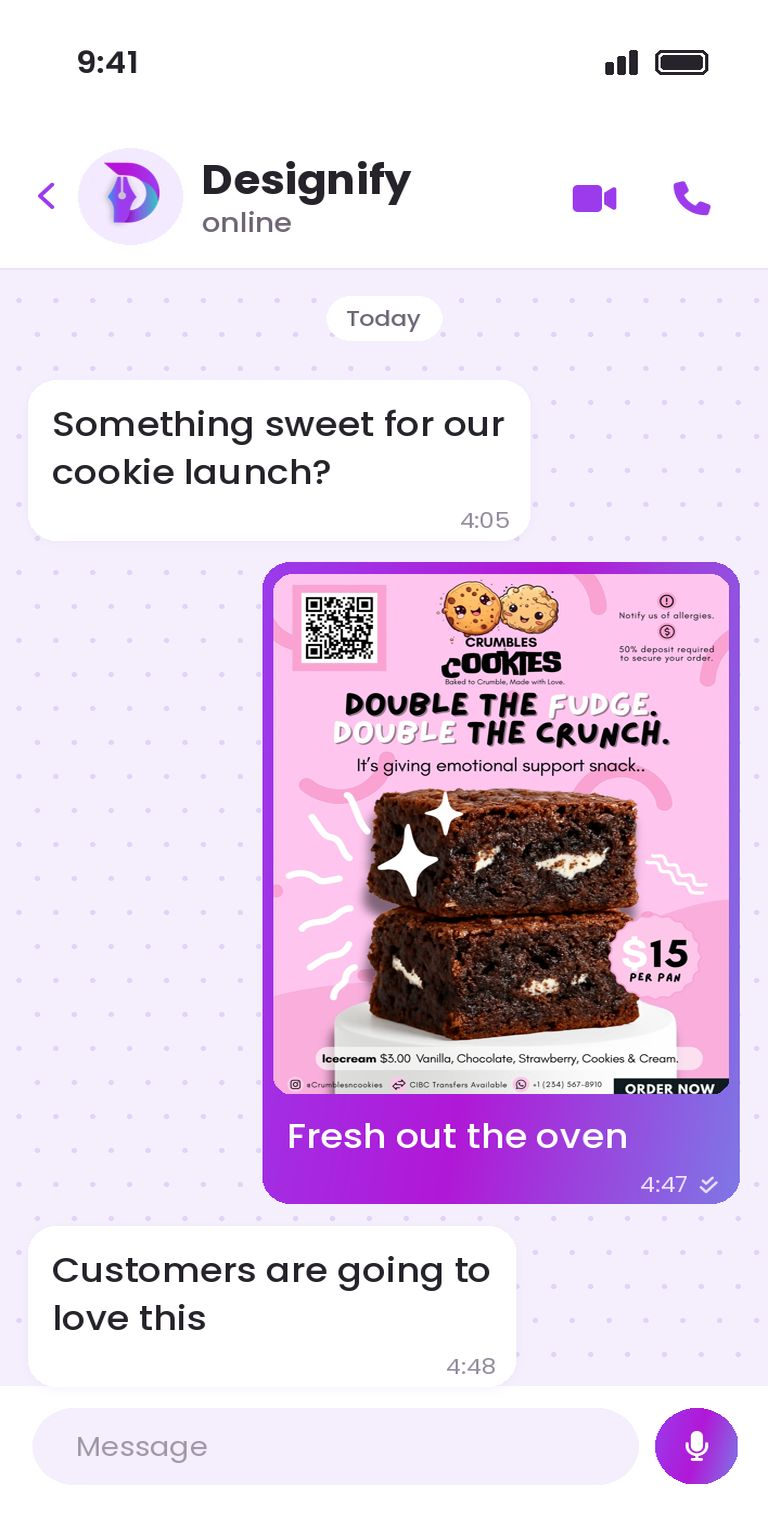
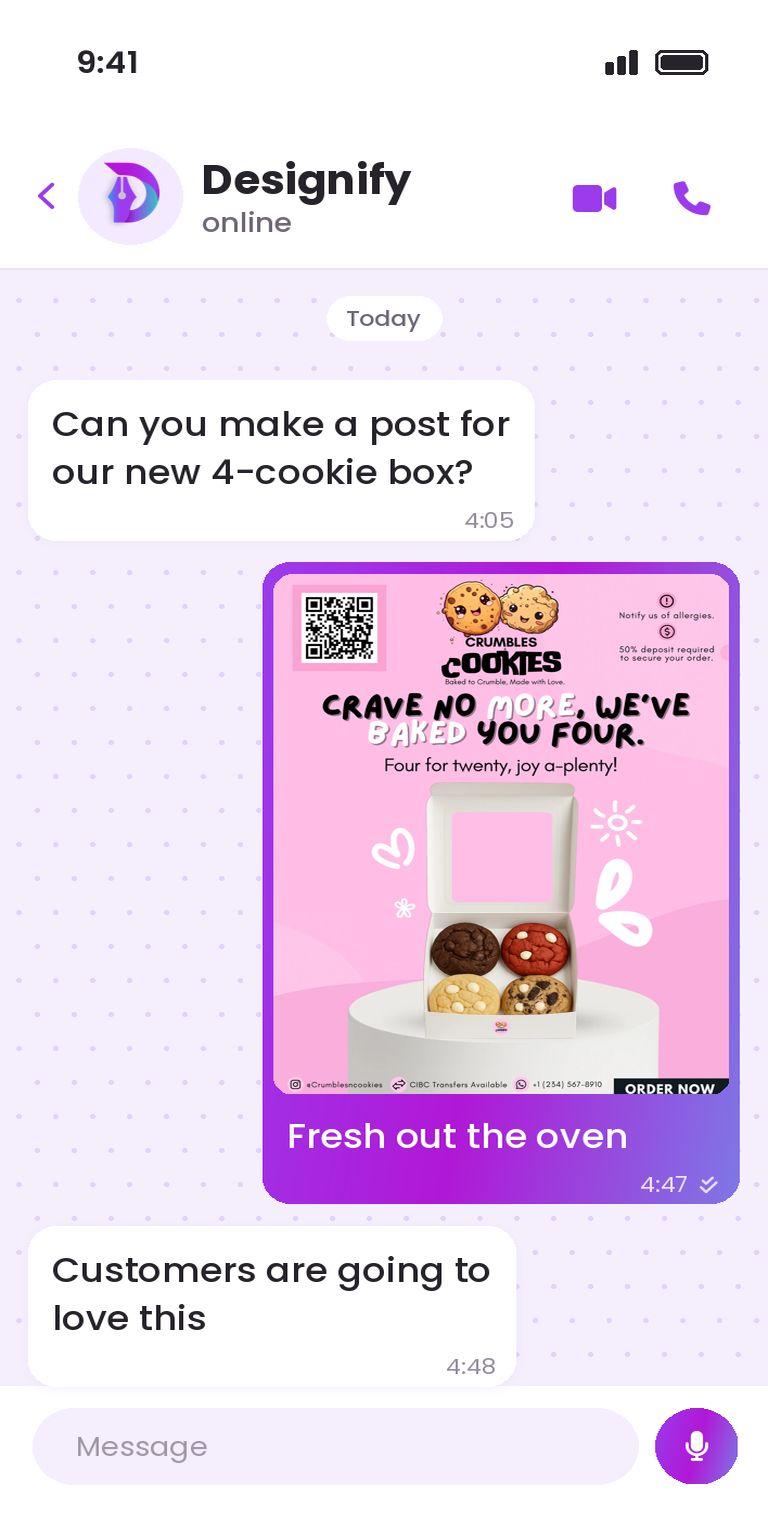
Phone chat: matching designs, buzz and spin
- Cookie chat now asks for the 4-cookie box post and shows that design
- Social media chat shows one brand's feed (Crave & Co.) instead of a
  mix of different clients
- Phone buzzes with a ring pulse when a message lands and spins a full
  turn when a new conversation starts

Claude-Session: https://claude.ai/code/session_01LHQDgk4opXddn6dfowpkvJ

diff --git a/projects/shenika-s-sweet-treats.html b/projects/shenika-s-sweet-treats.html
@@ -11,7 +11,7 @@
   gtag('js', new Date());
 
   gtag('config', 'G-Y71VVHPDCJ');
-</script><meta charset="utf-8"/><meta content="width=device-width,initial-scale=1" name="viewport"/><title>Shenika's Sweet Treats | Branding &amp; Graphic Design in Barbados | Designify</title><meta content="The Shenika's Sweet Treats dessert brand design project by Designify, a graphic designer in Barbados. See the designs created for Shenika's Sweet Treats." name="description"/><link href="https://fonts.googleapis.com" rel="preconnect"/><link crossorigin="" href="https://fonts.gstatic.com" rel="preconnect"/><link href="https://fonts.googleapis.com/css2?family=Poppins:wght@400;500;600;700;800&amp;display=swap" rel="stylesheet"/><link href="../assets/canvas.css?v=20261122j" rel="stylesheet"/><link crossorigin="anonymous" href="https://cdnjs.cloudflare.com/ajax/libs/font-awesome/6.7.2/css/all.min.css" integrity="sha512-Evv84Mr4kqVGRNSgIGL/F/aIDqQb7xQ2vcrdIwxfjThSH8CSR7PBEakCr51Ck+w+/U6swU2Im1vVX0SVk9ABhg==" referrerpolicy="no-referrer" rel="stylesheet"/><link rel="icon" type="image/x-icon" href="../favicon.ico"/><link rel="icon" type="image/png" sizes="64x64" href="../favicon.png"/><link rel="apple-touch-icon" sizes="180x180" href="../apple-touch-icon.png"/><link rel="canonical" href="https://designifybim.com/projects/shenika-s-sweet-treats"/>
+</script><meta charset="utf-8"/><meta content="width=device-width,initial-scale=1" name="viewport"/><title>Shenika's Sweet Treats | Branding &amp; Graphic Design in Barbados | Designify</title><meta content="The Shenika's Sweet Treats dessert brand design project by Designify, a graphic designer in Barbados. See the designs created for Shenika's Sweet Treats." name="description"/><link href="https://fonts.googleapis.com" rel="preconnect"/><link crossorigin="" href="https://fonts.gstatic.com" rel="preconnect"/><link href="https://fonts.googleapis.com/css2?family=Poppins:wght@400;500;600;700;800&amp;display=swap" rel="stylesheet"/><link href="../assets/canvas.css?v=20261122k" rel="stylesheet"/><link crossorigin="anonymous" href="https://cdnjs.cloudflare.com/ajax/libs/font-awesome/6.7.2/css/all.min.css" integrity="sha512-Evv84Mr4kqVGRNSgIGL/F/aIDqQb7xQ2vcrdIwxfjThSH8CSR7PBEakCr51Ck+w+/U6swU2Im1vVX0SVk9ABhg==" referrerpolicy="no-referrer" rel="stylesheet"/><link rel="icon" type="image/x-icon" href="../favicon.ico"/><link rel="icon" type="image/png" sizes="64x64" href="../favicon.png"/><link rel="apple-touch-icon" sizes="180x180" href="../apple-touch-icon.png"/><link rel="canonical" href="https://designifybim.com/projects/shenika-s-sweet-treats"/>
 <meta property="og:type" content="website"/>
 <meta property="og:url" content="https://designifybim.com/projects/shenika-s-sweet-treats"/>
 <meta property="og:title" content="Shenika's Sweet Treats | Branding &amp; Graphic Design in Barbados | Designify"/>
@@ -102,5 +102,5 @@
   <a aria-label="Chat with Designify on WhatsApp" class="whatsapp-contact" href="https://wa.me/12462301679" rel="noopener" target="_blank"><span class="whatsapp-bubble"><strong>Need a design?</strong><small>Chat on WhatsApp</small></span><span class="wa-ic" aria-hidden="true"><i class="fa-brands fa-whatsapp"></i></span></a>
 </div>
 <script src="../assets/site.js?v=20261027e"></script>
-<script src="../assets/canvas.js?v=20261122j"></script>
+<script src="../assets/canvas.js?v=20261122k"></script>
 </body></html>

diff --git a/projects/unique-waffle-bites.html b/projects/unique-waffle-bites.html
@@ -11,7 +11,7 @@
   gtag('js', new Date());
 
   gtag('config', 'G-Y71VVHPDCJ');
-</script><meta charset="utf-8"/><meta content="width=device-width,initial-scale=1" name="viewport"/><title>Unique Waffle Bites | Branding &amp; Graphic Design in Barbados | Designify</title><meta content="The Unique Waffle Bites food brand and promotional design project by Designify, a graphic designer in Barbados. See the designs created for Unique Waffle Bites." name="description"/><link href="https://fonts.googleapis.com" rel="preconnect"/><link crossorigin="" href="https://fonts.gstatic.com" rel="preconnect"/><link href="https://fonts.googleapis.com/css2?family=Poppins:wght@400;500;600;700;800&amp;display=swap" rel="stylesheet"/><link href="../assets/canvas.css?v=20261122j" rel="stylesheet"/><link crossorigin="anonymous" href="https://cdnjs.cloudflare.com/ajax/libs/font-awesome/6.7.2/css/all.min.css" integrity="sha512-Evv84Mr4kqVGRNSgIGL/F/aIDqQb7xQ2vcrdIwxfjThSH8CSR7PBEakCr51Ck+w+/U6swU2Im1vVX0SVk9ABhg==" referrerpolicy="no-referrer" rel="stylesheet"/><link rel="icon" type="image/x-icon" href="../favicon.ico"/><link rel="icon" type="image/png" sizes="64x64" href="../favicon.png"/><link rel="apple-touch-icon" sizes="180x180" href="../apple-touch-icon.png"/><link rel="canonical" href="https://designifybim.com/projects/unique-waffle-bites"/>
+</script><meta charset="utf-8"/><meta content="width=device-width,initial-scale=1" name="viewport"/><title>Unique Waffle Bites | Branding &amp; Graphic Design in Barbados | Designify</title><meta content="The Unique Waffle Bites food brand and promotional design project by Designify, a graphic designer in Barbados. See the designs created for Unique Waffle Bites." name="description"/><link href="https://fonts.googleapis.com" rel="preconnect"/><link crossorigin="" href="https://fonts.gstatic.com" rel="preconnect"/><link href="https://fonts.googleapis.com/css2?family=Poppins:wght@400;500;600;700;800&amp;display=swap" rel="stylesheet"/><link href="../assets/canvas.css?v=20261122k" rel="stylesheet"/><link crossorigin="anonymous" href="https://cdnjs.cloudflare.com/ajax/libs/font-awesome/6.7.2/css/all.min.css" integrity="sha512-Evv84Mr4kqVGRNSgIGL/F/aIDqQb7xQ2vcrdIwxfjThSH8CSR7PBEakCr51Ck+w+/U6swU2Im1vVX0SVk9ABhg==" referrerpolicy="no-referrer" rel="stylesheet"/><link rel="icon" type="image/x-icon" href="../favicon.ico"/><link rel="icon" type="image/png" sizes="64x64" href="../favicon.png"/><link rel="apple-touch-icon" sizes="180x180" href="../apple-touch-icon.png"/><link rel="canonical" href="https://designifybim.com/projects/unique-waffle-bites"/>
 <meta property="og:type" content="website"/>
 <meta property="og:url" content="https://designifybim.com/projects/unique-waffle-bites"/>
 <meta property="og:title" content="Unique Waffle Bites | Branding &amp; Graphic Design in Barbados | Designify"/>
@@ -102,5 +102,5 @@
   <a aria-label="Chat with Designify on WhatsApp" class="whatsapp-contact" href="https://wa.me/12462301679" rel="noopener" target="_blank"><span class="whatsapp-bubble"><strong>Need a design?</strong><small>Chat on WhatsApp</small></span><span class="wa-ic" aria-hidden="true"><i class="fa-brands fa-whatsapp"></i></span></a>
 </div>
 <script src="../assets/site.js?v=20261027e"></script>
-<script src="../assets/canvas.js?v=20261122j"></script>
+<script src="../assets/canvas.js?v=20261122k"></script>
 </body></html>

diff --git a/projects/crumbles-cookies.html b/projects/crumbles-cookies.html
@@ -11,7 +11,7 @@
   gtag('js', new Date());
 
   gtag('config', 'G-Y71VVHPDCJ');
-</script><meta charset="utf-8"/><meta content="width=device-width,initial-scale=1" name="viewport"/><title>Crumbles & Cookies | Branding &amp; Graphic Design in Barbados | Designify</title><meta content="The Crumbles & Cookies bakery branding and promotional design project by Designify, a graphic designer in Barbados. See the designs created for Crumbles & Cookies." name="description"/><link href="https://fonts.googleapis.com" rel="preconnect"/><link crossorigin="" href="https://fonts.gstatic.com" rel="preconnect"/><link href="https://fonts.googleapis.com/css2?family=Poppins:wght@400;500;600;700;800&amp;display=swap" rel="stylesheet"/><link href="../assets/canvas.css?v=20261122j" rel="stylesheet"/><link crossorigin="anonymous" href="https://cdnjs.cloudflare.com/ajax/libs/font-awesome/6.7.2/css/all.min.css" integrity="sha512-Evv84Mr4kqVGRNSgIGL/F/aIDqQb7xQ2vcrdIwxfjThSH8CSR7PBEakCr51Ck+w+/U6swU2Im1vVX0SVk9ABhg==" referrerpolicy="no-referrer" rel="stylesheet"/><link rel="icon" type="image/x-icon" href="../favicon.ico"/><link rel="icon" type="image/png" sizes="64x64" href="../favicon.png"/><link rel="apple-touch-icon" sizes="180x180" href="../apple-touch-icon.png"/><link rel="canonical" href="https://designifybim.com/projects/crumbles-cookies"/>
+</script><meta charset="utf-8"/><meta content="width=device-width,initial-scale=1" name="viewport"/><title>Crumbles & Cookies | Branding &amp; Graphic Design in Barbados | Designify</title><meta content="The Crumbles & Cookies bakery branding and promotional design project by Designify, a graphic designer in Barbados. See the designs created for Crumbles & Cookies." name="description"/><link href="https://fonts.googleapis.com" rel="preconnect"/><link crossorigin="" href="https://fonts.gstatic.com" rel="preconnect"/><link href="https://fonts.googleapis.com/css2?family=Poppins:wght@400;500;600;700;800&amp;display=swap" rel="stylesheet"/><link href="../assets/canvas.css?v=20261122k" rel="stylesheet"/><link crossorigin="anonymous" href="https://cdnjs.cloudflare.com/ajax/libs/font-awesome/6.7.2/css/all.min.css" integrity="sha512-Evv84Mr4kqVGRNSgIGL/F/aIDqQb7xQ2vcrdIwxfjThSH8CSR7PBEakCr51Ck+w+/U6swU2Im1vVX0SVk9ABhg==" referrerpolicy="no-referrer" rel="stylesheet"/><link rel="icon" type="image/x-icon" href="../favicon.ico"/><link rel="icon" type="image/png" sizes="64x64" href="../favicon.png"/><link rel="apple-touch-icon" sizes="180x180" href="../apple-touch-icon.png"/><link rel="canonical" href="https://designifybim.com/projects/crumbles-cookies"/>
 <meta property="og:type" content="website"/>
 <meta property="og:url" content="https://designifybim.com/projects/crumbles-cookies"/>
 <meta property="og:title" content="Crumbles & Cookies | Branding &amp; Graphic Design in Barbados | Designify"/>
@@ -102,5 +102,5 @@
   <a aria-label="Chat with Designify on WhatsApp" class="whatsapp-contact" href="https://wa.me/12462301679" rel="noopener" target="_blank"><span class="whatsapp-bubble"><strong>Need a design?</strong><small>Chat on WhatsApp</small></span><span class="wa-ic" aria-hidden="true"><i class="fa-brands fa-whatsapp"></i></span></a>
 </div>
 <script src="../assets/site.js?v=20261027e"></script>
-<script src="../assets/canvas.js?v=20261122j"></script>
+<script src="../assets/canvas.js?v=20261122k"></script>
 </body></html>

diff --git a/projects/apex-car-rentals.html b/projects/apex-car-rentals.html
@@ -11,7 +11,7 @@
   gtag('js', new Date());
 
   gtag('config', 'G-Y71VVHPDCJ');
-</script><meta charset="utf-8"/><meta content="width=device-width,initial-scale=1" name="viewport"/><title>Apex Car Rentals | Branding &amp; Graphic Design in Barbados | Designify</title><meta content="The Apex Car Rentals branding and promotional design project by Designify, a graphic designer in Barbados. See the designs created for Apex Car Rentals." name="description"/><link href="https://fonts.googleapis.com" rel="preconnect"/><link crossorigin="" href="https://fonts.gstatic.com" rel="preconnect"/><link href="https://fonts.googleapis.com/css2?family=Poppins:wght@400;500;600;700;800&amp;display=swap" rel="stylesheet"/><link href="../assets/canvas.css?v=20261122j" rel="stylesheet"/><link crossorigin="anonymous" href="https://cdnjs.cloudflare.com/ajax/libs/font-awesome/6.7.2/css/all.min.css" integrity="sha512-Evv84Mr4kqVGRNSgIGL/F/aIDqQb7xQ2vcrdIwxfjThSH8CSR7PBEakCr51Ck+w+/U6swU2Im1vVX0SVk9ABhg==" referrerpolicy="no-referrer" rel="stylesheet"/><link rel="icon" type="image/x-icon" href="../favicon.ico"/><link rel="icon" type="image/png" sizes="64x64" href="../favicon.png"/><link rel="apple-touch-icon" sizes="180x180" href="../apple-touch-icon.png"/><link rel="canonical" href="https://designifybim.com/projects/apex-car-rentals"/>
+</script><meta charset="utf-8"/><meta content="width=device-width,initial-scale=1" name="viewport"/><title>Apex Car Rentals | Branding &amp; Graphic Design in Barbados | Designify</title><meta content="The Apex Car Rentals branding and promotional design project by Designify, a graphic designer in Barbados. See the designs created for Apex Car Rentals." name="description"/><link href="https://fonts.googleapis.com" rel="preconnect"/><link crossorigin="" href="https://fonts.gstatic.com" rel="preconnect"/><link href="https://fonts.googleapis.com/css2?family=Poppins:wght@400;500;600;700;800&amp;display=swap" rel="stylesheet"/><link href="../assets/canvas.css?v=20261122k" rel="stylesheet"/><link crossorigin="anonymous" href="https://cdnjs.cloudflare.com/ajax/libs/font-awesome/6.7.2/css/all.min.css" integrity="sha512-Evv84Mr4kqVGRNSgIGL/F/aIDqQb7xQ2vcrdIwxfjThSH8CSR7PBEakCr51Ck+w+/U6swU2Im1vVX0SVk9ABhg==" referrerpolicy="no-referrer" rel="stylesheet"/><link rel="icon" type="image/x-icon" href="../favicon.ico"/><link rel="icon" type="image/png" sizes="64x64" href="../favicon.png"/><link rel="apple-touch-icon" sizes="180x180" href="../apple-touch-icon.png"/><link rel="canonical" href="https://designifybim.com/projects/apex-car-rentals"/>
 <meta property="og:type" content="website"/>
 <meta property="og:url" content="https://designifybim.com/projects/apex-car-rentals"/>
 <meta property="og:title" content="Apex Car Rentals | Branding &amp; Graphic Design in Barbados | Designify"/>
@@ -102,5 +102,5 @@
   <a aria-label="Chat with Designify on WhatsApp" class="whatsapp-contact" href="https://wa.me/12462301679" rel="noopener" target="_blank"><span class="whatsapp-bubble"><strong>Need a design?</strong><small>Chat on WhatsApp</small></span><span class="wa-ic" aria-hidden="true"><i class="fa-brands fa-whatsapp"></i></span></a>
 </div>
 <script src="../assets/site.js?v=20261027e"></script>
-<script src="../assets/canvas.js?v=20261122j"></script>
+<script src="../assets/canvas.js?v=20261122k"></script>
 </body></html>

diff --git a/projects/supremo-glass.html b/projects/supremo-glass.html
@@ -11,7 +11,7 @@
   gtag('js', new Date());
 
   gtag('config', 'G-Y71VVHPDCJ');
-</script><meta charset="utf-8"/><meta content="width=device-width,initial-scale=1" name="viewport"/><title>Supremo Glass | Branding &amp; Graphic Design in Barbados | Designify</title><meta content="The Supremo Glass business branding and presentation design project by Designify, a graphic designer in Barbados. See the designs created for Supremo Glass." name="description"/><link href="https://fonts.googleapis.com" rel="preconnect"/><link crossorigin="" href="https://fonts.gstatic.com" rel="preconnect"/><link href="https://fonts.googleapis.com/css2?family=Poppins:wght@400;500;600;700;800&amp;display=swap" rel="stylesheet"/><link href="../assets/canvas.css?v=20261122j" rel="stylesheet"/><link crossorigin="anonymous" href="https://cdnjs.cloudflare.com/ajax/libs/font-awesome/6.7.2/css/all.min.css" integrity="sha512-Evv84Mr4kqVGRNSgIGL/F/aIDqQb7xQ2vcrdIwxfjThSH8CSR7PBEakCr51Ck+w+/U6swU2Im1vVX0SVk9ABhg==" referrerpolicy="no-referrer" rel="stylesheet"/><link rel="icon" type="image/x-icon" href="../favicon.ico"/><link rel="icon" type="image/png" sizes="64x64" href="../favicon.png"/><link rel="apple-touch-icon" sizes="180x180" href="../apple-touch-icon.png"/><link rel="canonical" href="https://designifybim.com/projects/supremo-glass"/>
+</script><meta charset="utf-8"/><meta content="width=device-width,initial-scale=1" name="viewport"/><title>Supremo Glass | Branding &amp; Graphic Design in Barbados | Designify</title><meta content="The Supremo Glass business branding and presentation design project by Designify, a graphic designer in Barbados. See the designs created for Supremo Glass." name="description"/><link href="https://fonts.googleapis.com" rel="preconnect"/><link crossorigin="" href="https://fonts.gstatic.com" rel="preconnect"/><link href="https://fonts.googleapis.com/css2?family=Poppins:wght@400;500;600;700;800&amp;display=swap" rel="stylesheet"/><link href="../assets/canvas.css?v=20261122k" rel="stylesheet"/><link crossorigin="anonymous" href="https://cdnjs.cloudflare.com/ajax/libs/font-awesome/6.7.2/css/all.min.css" integrity="sha512-Evv84Mr4kqVGRNSgIGL/F/aIDqQb7xQ2vcrdIwxfjThSH8CSR7PBEakCr51Ck+w+/U6swU2Im1vVX0SVk9ABhg==" referrerpolicy="no-referrer" rel="stylesheet"/><link rel="icon" type="image/x-icon" href="../favicon.ico"/><link rel="icon" type="image/png" sizes="64x64" href="../favicon.png"/><link rel="apple-touch-icon" sizes="180x180" href="../apple-touch-icon.png"/><link rel="canonical" href="https://designifybim.com/projects/supremo-glass"/>
 <meta property="og:type" content="website"/>
 <meta property="og:url" content="https://designifybim.com/projects/supremo-glass"/>
 <meta property="og:title" content="Supremo Glass | Branding &amp; Graphic Design in Barbados | Designify"/>
@@ -102,5 +102,5 @@
   <a aria-label="Chat with Designify on WhatsApp" class="whatsapp-contact" href="https://wa.me/12462301679" rel="noopener" target="_blank"><span class="whatsapp-bubble"><strong>Need a design?</strong><small>Chat on WhatsApp</small></span><span class="wa-ic" aria-hidden="true"><i class="fa-brands fa-whatsapp"></i></span></a>
 </div>
 <script src="../assets/site.js?v=20261027e"></script>
-<script src="../assets/canvas.js?v=20261122j"></script>
+<script src="../assets/canvas.js?v=20261122k"></script>
 </body></html>

diff --git a/projects/sugared-by-bri.html b/projects/sugared-by-bri.html
@@ -11,7 +11,7 @@
   gtag('js', new Date());
 
   gtag('config', 'G-Y71VVHPDCJ');
-</script><meta charset="utf-8"/><meta content="width=device-width,initial-scale=1" name="viewport"/><title>Sugared by Bri | Branding &amp; Graphic Design in Barbados | Designify</title><meta content="The Sugared by Bri beauty brand promotional design project by Designify, a graphic designer in Barbados. See the designs created for Sugared by Bri." name="description"/><link href="https://fonts.googleapis.com" rel="preconnect"/><link crossorigin="" href="https://fonts.gstatic.com" rel="preconnect"/><link href="https://fonts.googleapis.com/css2?family=Poppins:wght@400;500;600;700;800&amp;display=swap" rel="stylesheet"/><link href="../assets/canvas.css?v=20261122j" rel="stylesheet"/><link crossorigin="anonymous" href="https://cdnjs.cloudflare.com/ajax/libs/font-awesome/6.7.2/css/all.min.css" integrity="sha512-Evv84Mr4kqVGRNSgIGL/F/aIDqQb7xQ2vcrdIwxfjThSH8CSR7PBEakCr51Ck+w+/U6swU2Im1vVX0SVk9ABhg==" referrerpolicy="no-referrer" rel="stylesheet"/><link rel="icon" type="image/x-icon" href="../favicon.ico"/><link rel="icon" type="image/png" sizes="64x64" href="../favicon.png"/><link rel="apple-touch-icon" sizes="180x180" href="../apple-touch-icon.png"/><link rel="canonical" href="https://designifybim.com/projects/sugared-by-bri"/>
+</script><meta charset="utf-8"/><meta content="width=device-width,initial-scale=1" name="viewport"/><title>Sugared by Bri | Branding &amp; Graphic Design in Barbados | Designify</title><meta content="The Sugared by Bri beauty brand promotional design project by Designify, a graphic designer in Barbados. See the designs created for Sugared by Bri." name="description"/><link href="https://fonts.googleapis.com" rel="preconnect"/><link crossorigin="" href="https://fonts.gstatic.com" rel="preconnect"/><link href="https://fonts.googleapis.com/css2?family=Poppins:wght@400;500;600;700;800&amp;display=swap" rel="stylesheet"/><link href="../assets/canvas.css?v=20261122k" rel="stylesheet"/><link crossorigin="anonymous" href="https://cdnjs.cloudflare.com/ajax/libs/font-awesome/6.7.2/css/all.min.css" integrity="sha512-Evv84Mr4kqVGRNSgIGL/F/aIDqQb7xQ2vcrdIwxfjThSH8CSR7PBEakCr51Ck+w+/U6swU2Im1vVX0SVk9ABhg==" referrerpolicy="no-referrer" rel="stylesheet"/><link rel="icon" type="image/x-icon" href="../favicon.ico"/><link rel="icon" type="image/png" sizes="64x64" href="../favicon.png"/><link rel="apple-touch-icon" sizes="180x180" href="../apple-touch-icon.png"/><link rel="canonical" href="https://designifybim.com/projects/sugared-by-bri"/>
 <meta property="og:type" content="website"/>
 <meta property="og:url" content="https://designifybim.com/projects/sugared-by-bri"/>
 <meta property="og:title" content="Sugared by Bri | Branding &amp; Graphic Design in Barbados | Designify"/>
@@ -102,5 +102,5 @@
   <a aria-label="Chat with Designify on WhatsApp" class="whatsapp-contact" href="https://wa.me/12462301679" rel="noopener" target="_blank"><span class="whatsapp-bubble"><strong>Need a design?</strong><small>Chat on WhatsApp</small></span><span class="wa-ic" aria-hidden="true"><i class="fa-brands fa-whatsapp"></i></span></a>
 </div>
 <script src="../assets/site.js?v=20261027e"></script>
-<script src="../assets/canvas.js?v=20261122j"></script>
+<script src="../assets/canvas.js?v=20261122k"></script>
 </body></html>

diff --git a/projects/luxe-by-her.html b/projects/luxe-by-her.html
@@ -11,7 +11,7 @@
   gtag('js', new Date());
 
   gtag('config', 'G-Y71VVHPDCJ');
-</script><meta charset="utf-8"/><meta content="width=device-width,initial-scale=1" name="viewport"/><title>LUXE BY HER | Branding &amp; Graphic Design in Barbados | Designify</title><meta content="The LUXE BY HER fashion and lifestyle branding project by Designify, a graphic designer in Barbados. See the designs created for LUXE BY HER." name="description"/><link href="https://fonts.googleapis.com" rel="preconnect"/><link crossorigin="" href="https://fonts.gstatic.com" rel="preconnect"/><link href="https://fonts.googleapis.com/css2?family=Poppins:wght@400;500;600;700;800&amp;display=swap" rel="stylesheet"/><link href="../assets/canvas.css?v=20261122j" rel="stylesheet"/><link crossorigin="anonymous" href="https://cdnjs.cloudflare.com/ajax/libs/font-awesome/6.7.2/css/all.min.css" integrity="sha512-Evv84Mr4kqVGRNSgIGL/F/aIDqQb7xQ2vcrdIwxfjThSH8CSR7PBEakCr51Ck+w+/U6swU2Im1vVX0SVk9ABhg==" referrerpolicy="no-referrer" rel="stylesheet"/><link rel="icon" type="image/x-icon" href="../favicon.ico"/><link rel="icon" type="image/png" sizes="64x64" href="../favicon.png"/><link rel="apple-touch-icon" sizes="180x180" href="../apple-touch-icon.png"/><link rel="canonical" href="https://designifybim.com/projects/luxe-by-her"/>
+</script><meta charset="utf-8"/><meta content="width=device-width,initial-scale=1" name="viewport"/><title>LUXE BY HER | Branding &amp; Graphic Design in Barbados | Designify</title><meta content="The LUXE BY HER fashion and lifestyle branding project by Designify, a graphic designer in Barbados. See the designs created for LUXE BY HER." name="description"/><link href="https://fonts.googleapis.com" rel="preconnect"/><link crossorigin="" href="https://fonts.gstatic.com" rel="preconnect"/><link href="https://fonts.googleapis.com/css2?family=Poppins:wght@400;500;600;700;800&amp;display=swap" rel="stylesheet"/><link href="../assets/canvas.css?v=20261122k" rel="stylesheet"/><link crossorigin="anonymous" href="https://cdnjs.cloudflare.com/ajax/libs/font-awesome/6.7.2/css/all.min.css" integrity="sha512-Evv84Mr4kqVGRNSgIGL/F/aIDqQb7xQ2vcrdIwxfjThSH8CSR7PBEakCr51Ck+w+/U6swU2Im1vVX0SVk9ABhg==" referrerpolicy="no-referrer" rel="stylesheet"/><link rel="icon" type="image/x-icon" href="../favicon.ico"/><link rel="icon" type="image/png" sizes="64x64" href="../favicon.png"/><link rel="apple-touch-icon" sizes="180x180" href="../apple-touch-icon.png"/><link rel="canonical" href="https://designifybim.com/projects/luxe-by-her"/>
 <meta property="og:type" content="website"/>
 <meta property="og:url" content="https://designifybim.com/projects/luxe-by-her"/>
 <meta property="og:title" content="LUXE BY HER | Branding &amp; Graphic Design in Barbados | Designify"/>
@@ -102,5 +102,5 @@
   <a aria-label="Chat with Designify on WhatsApp" class="whatsapp-contact" href="https://wa.me/12462301679" rel="noopener" target="_blank"><span class="whatsapp-bubble"><strong>Need a design?</strong><small>Chat on WhatsApp</small></span><span class="wa-ic" aria-hidden="true"><i class="fa-brands fa-whatsapp"></i></span></a>
 </div>
 <script src="../assets/site.js?v=20261027e"></script>
-<script src="../assets/canvas.js?v=20261122j"></script>
+<script src="../assets/canvas.js?v=20261122k"></script>
 </body></html>

diff --git a/projects/nova-lounge.html b/projects/nova-lounge.html
@@ -11,7 +11,7 @@
   gtag('js', new Date());
 
   gtag('config', 'G-Y71VVHPDCJ');
-</script><meta charset="utf-8"/><meta content="width=device-width,initial-scale=1" name="viewport"/><title>Nova Lounge | Branding &amp; Graphic Design in Barbados | Designify</title><meta content="The Nova Lounge fashion and lifestyle branding project by Designify, a graphic designer in Barbados. See the designs created for Nova Lounge." name="description"/><link href="https://fonts.googleapis.com" rel="preconnect"/><link crossorigin="" href="https://fonts.gstatic.com" rel="preconnect"/><link href="https://fonts.googleapis.com/css2?family=Poppins:wght@400;500;600;700;800&amp;display=swap" rel="stylesheet"/><link href="../assets/canvas.css?v=20261122j" rel="stylesheet"/><link crossorigin="anonymous" href="https://cdnjs.cloudflare.com/ajax/libs/font-awesome/6.7.2/css/all.min.css" integrity="sha512-Evv84Mr4kqVGRNSgIGL/F/aIDqQb7xQ2vcrdIwxfjThSH8CSR7PBEakCr51Ck+w+/U6swU2Im1vVX0SVk9ABhg==" referrerpolicy="no-referrer" rel="stylesheet"/><link rel="icon" type="image/x-icon" href="../favicon.ico"/><link rel="icon" type="image/png" sizes="64x64" href="../favicon.png"/><link rel="apple-touch-icon" sizes="180x180" href="../apple-touch-icon.png"/><link rel="canonical" href="https://designifybim.com/projects/nova-lounge"/>
+</script><meta charset="utf-8"/><meta content="width=device-width,initial-scale=1" name="viewport"/><title>Nova Lounge | Branding &amp; Graphic Design in Barbados | Designify</title><meta content="The Nova Lounge fashion and lifestyle branding project by Designify, a graphic designer in Barbados. See the designs created for Nova Lounge." name="description"/><link href="https://fonts.googleapis.com" rel="preconnect"/><link crossorigin="" href="https://fonts.gstatic.com" rel="preconnect"/><link href="https://fonts.googleapis.com/css2?family=Poppins:wght@400;500;600;700;800&amp;display=swap" rel="stylesheet"/><link href="../assets/canvas.css?v=20261122k" rel="stylesheet"/><link crossorigin="anonymous" href="https://cdnjs.cloudflare.com/ajax/libs/font-awesome/6.7.2/css/all.min.css" integrity="sha512-Evv84Mr4kqVGRNSgIGL/F/aIDqQb7xQ2vcrdIwxfjThSH8CSR7PBEakCr51Ck+w+/U6swU2Im1vVX0SVk9ABhg==" referrerpolicy="no-referrer" rel="stylesheet"/><link rel="icon" type="image/x-icon" href="../favicon.ico"/><link rel="icon" type="image/png" sizes="64x64" href="../favicon.png"/><link rel="apple-touch-icon" sizes="180x180" href="../apple-touch-icon.png"/><link rel="canonical" href="https://designifybim.com/projects/nova-lounge"/>
 <meta property="og:type" content="website"/>
 <meta property="og:url" content="https://designifybim.com/projects/nova-lounge"/>
 <meta property="og:title" content="Nova Lounge | Branding &amp; Graphic Design in Barbados | Designify"/>
@@ -102,5 +102,5 @@
   <a aria-label="Chat with Designify on WhatsApp" class="whatsapp-contact" href="https://wa.me/12462301679" rel="noopener" target="_blank"><span class="whatsapp-bubble"><strong>Need a design?</strong><small>Chat on WhatsApp</small></span><span class="wa-ic" aria-hidden="true"><i class="fa-brands fa-whatsapp"></i></span></a>
 </div>
 <script src="../assets/site.js?v=20261027e"></script>
-<script src="../assets/canvas.js?v=20261122j"></script>
+<script src="../assets/canvas.js?v=20261122k"></script>
 </body></html>

diff --git a/projects/tre-hair.html b/projects/tre-hair.html
@@ -11,7 +11,7 @@
   gtag('js', new Date());
 
   gtag('config', 'G-Y71VVHPDCJ');
-</script><meta charset="utf-8"/><meta content="width=device-width,initial-scale=1" name="viewport"/><title>TRE Hair | Branding &amp; Graphic Design in Barbados | Designify</title><meta content="The TRE Hair beauty brand pricing and promotional design project by Designify, a graphic designer in Barbados. See the designs created for TRE Hair." name="description"/><link href="https://fonts.googleapis.com" rel="preconnect"/><link crossorigin="" href="https://fonts.gstatic.com" rel="preconnect"/><link href="https://fonts.googleapis.com/css2?family=Poppins:wght@400;500;600;700;800&amp;display=swap" rel="stylesheet"/><link href="../assets/canvas.css?v=20261122j" rel="stylesheet"/><link crossorigin="anonymous" href="https://cdnjs.cloudflare.com/ajax/libs/font-awesome/6.7.2/css/all.min.css" integrity="sha512-Evv84Mr4kqVGRNSgIGL/F/aIDqQb7xQ2vcrdIwxfjThSH8CSR7PBEakCr51Ck+w+/U6swU2Im1vVX0SVk9ABhg==" referrerpolicy="no-referrer" rel="stylesheet"/><link rel="icon" type="image/x-icon" href="../favicon.ico"/><link rel="icon" type="image/png" sizes="64x64" href="../favicon.png"/><link rel="apple-touch-icon" sizes="180x180" href="../apple-touch-icon.png"/><link rel="canonical" href="https://designifybim.com/projects/tre-hair"/>
+</script><meta charset="utf-8"/><meta content="width=device-width,initial-scale=1" name="viewport"/><title>TRE Hair | Branding &amp; Graphic Design in Barbados | Designify</title><meta content="The TRE Hair beauty brand pricing and promotional design project by Designify, a graphic designer in Barbados. See the designs created for TRE Hair." name="description"/><link href="https://fonts.googleapis.com" rel="preconnect"/><link crossorigin="" href="https://fonts.gstatic.com" rel="preconnect"/><link href="https://fonts.googleapis.com/css2?family=Poppins:wght@400;500;600;700;800&amp;display=swap" rel="stylesheet"/><link href="../assets/canvas.css?v=20261122k" rel="stylesheet"/><link crossorigin="anonymous" href="https://cdnjs.cloudflare.com/ajax/libs/font-awesome/6.7.2/css/all.min.css" integrity="sha512-Evv84Mr4kqVGRNSgIGL/F/aIDqQb7xQ2vcrdIwxfjThSH8CSR7PBEakCr51Ck+w+/U6swU2Im1vVX0SVk9ABhg==" referrerpolicy="no-referrer" rel="stylesheet"/><link rel="icon" type="image/x-icon" href="../favicon.ico"/><link rel="icon" type="image/png" sizes="64x64" href="../favicon.png"/><link rel="apple-touch-icon" sizes="180x180" href="../apple-touch-icon.png"/><link rel="canonical" href="https://designifybim.com/projects/tre-hair"/>
 <meta property="og:type" content="website"/>
 <meta property="og:url" content="https://designifybim.com/projects/tre-hair"/>
 <meta property="og:title" content="TRE Hair | Branding &amp; Graphic Design in Barbados | Designify"/>
@@ -102,5 +102,5 @@
   <a aria-label="Chat with Designify on WhatsApp" class="whatsapp-contact" href="https://wa.me/12462301679" rel="noopener" target="_blank"><span class="whatsapp-bubble"><strong>Need a design?</strong><small>Chat on WhatsApp</small></span><span class="wa-ic" aria-hidden="true"><i class="fa-brands fa-whatsapp"></i></span></a>
 </div>
 <script src="../assets/site.js?v=20261027e"></script>
-<script src="../assets/canvas.js?v=20261122j"></script>
+<script src="../assets/canvas.js?v=20261122k"></script>
 </body></html>

diff --git a/projects/crave-box.html b/projects/crave-box.html
@@ -11,7 +11,7 @@
   gtag('js', new Date());
 
   gtag('config', 'G-Y71VVHPDCJ');
-</script><meta charset="utf-8"/><meta content="width=device-width,initial-scale=1" name="viewport"/><title>Crave Box | Branding &amp; Graphic Design in Barbados | Designify</title><meta content="The Crave Box branding and food promotion design project by Designify, a graphic designer in Barbados. See the designs created for Crave Box." name="description"/><link href="https://fonts.googleapis.com" rel="preconnect"/><link crossorigin="" href="https://fonts.gstatic.com" rel="preconnect"/><link href="https://fonts.googleapis.com/css2?family=Poppins:wght@400;500;600;700;800&amp;display=swap" rel="stylesheet"/><link href="../assets/canvas.css?v=20261122j" rel="stylesheet"/><link crossorigin="anonymous" href="https://cdnjs.cloudflare.com/ajax/libs/font-awesome/6.7.2/css/all.min.css" integrity="sha512-Evv84Mr4kqVGRNSgIGL/F/aIDqQb7xQ2vcrdIwxfjThSH8CSR7PBEakCr51Ck+w+/U6swU2Im1vVX0SVk9ABhg==" referrerpolicy="no-referrer" rel="stylesheet"/><link rel="icon" type="image/x-icon" href="../favicon.ico"/><link rel="icon" type="image/png" sizes="64x64" href="../favicon.png"/><link rel="apple-touch-icon" sizes="180x180" href="../apple-touch-icon.png"/><link rel="canonical" href="https://designifybim.com/projects/crave-box"/>
+</script><meta charset="utf-8"/><meta content="width=device-width,initial-scale=1" name="viewport"/><title>Crave Box | Branding &amp; Graphic Design in Barbados | Designify</title><meta content="The Crave Box branding and food promotion design project by Designify, a graphic designer in Barbados. See the designs created for Crave Box." name="description"/><link href="https://fonts.googleapis.com" rel="preconnect"/><link crossorigin="" href="https://fonts.gstatic.com" rel="preconnect"/><link href="https://fonts.googleapis.com/css2?family=Poppins:wght@400;500;600;700;800&amp;display=swap" rel="stylesheet"/><link href="../assets/canvas.css?v=20261122k" rel="stylesheet"/><link crossorigin="anonymous" href="https://cdnjs.cloudflare.com/ajax/libs/font-awesome/6.7.2/css/all.min.css" integrity="sha512-Evv84Mr4kqVGRNSgIGL/F/aIDqQb7xQ2vcrdIwxfjThSH8CSR7PBEakCr51Ck+w+/U6swU2Im1vVX0SVk9ABhg==" referrerpolicy="no-referrer" rel="stylesheet"/><link rel="icon" type="image/x-icon" href="../favicon.ico"/><link rel="icon" type="image/png" sizes="64x64" href="../favicon.png"/><link rel="apple-touch-icon" sizes="180x180" href="../apple-touch-icon.png"/><link rel="canonical" href="https://designifybim.com/projects/crave-box"/>
 <meta property="og:type" content="website"/>
 <meta property="og:url" content="https://designifybim.com/projects/crave-box"/>
 <meta property="og:title" content="Crave Box | Branding &amp; Graphic Design in Barbados | Designify"/>
@@ -102,5 +102,5 @@
   <a aria-label="Chat with Designify on WhatsApp" class="whatsapp-contact" href="https://wa.me/12462301679" rel="noopener" target="_blank"><span class="whatsapp-bubble"><strong>Need a design?</strong><small>Chat on WhatsApp</small></span><span class="wa-ic" aria-hidden="true"><i class="fa-brands fa-whatsapp"></i></span></a>
 </div>
 <script src="../assets/site.js?v=20261027e"></script>
-<script src="../assets/canvas.js?v=20261122j"></script>
+<script src="../assets/canvas.js?v=20261122k"></script>
 </body></html>

diff --git a/projects/doughzy.html b/projects/doughzy.html
@@ -11,7 +11,7 @@
   gtag('js', new Date());
 
   gtag('config', 'G-Y71VVHPDCJ');
-</script><meta charset="utf-8"/><meta content="width=device-width,initial-scale=1" name="viewport"/><title>Doughzy | Branding &amp; Graphic Design in Barbados | Designify</title><meta content="The Doughzy packaging, branding and product presentation project by Designify, a graphic designer in Barbados. See the designs created for Doughzy." name="description"/><link href="https://fonts.googleapis.com" rel="preconnect"/><link crossorigin="" href="https://fonts.gstatic.com" rel="preconnect"/><link href="https://fonts.googleapis.com/css2?family=Poppins:wght@400;500;600;700;800&amp;display=swap" rel="stylesheet"/><link href="../assets/canvas.css?v=20261122j" rel="stylesheet"/><link crossorigin="anonymous" href="https://cdnjs.cloudflare.com/ajax/libs/font-awesome/6.7.2/css/all.min.css" integrity="sha512-Evv84Mr4kqVGRNSgIGL/F/aIDqQb7xQ2vcrdIwxfjThSH8CSR7PBEakCr51Ck+w+/U6swU2Im1vVX0SVk9ABhg==" referrerpolicy="no-referrer" rel="stylesheet"/><link rel="icon" type="image/x-icon" href="../favicon.ico"/><link rel="icon" type="image/png" sizes="64x64" href="../favicon.png"/><link rel="apple-touch-icon" sizes="180x180" href="../apple-touch-icon.png"/><link rel="canonical" href="https://designifybim.com/projects/doughzy"/>
+</script><meta charset="utf-8"/><meta content="width=device-width,initial-scale=1" name="viewport"/><title>Doughzy | Branding &amp; Graphic Design in Barbados | Designify</title><meta content="The Doughzy packaging, branding and product presentation project by Designify, a graphic designer in Barbados. See the designs created for Doughzy." name="description"/><link href="https://fonts.googleapis.com" rel="preconnect"/><link crossorigin="" href="https://fonts.gstatic.com" rel="preconnect"/><link href="https://fonts.googleapis.com/css2?family=Poppins:wght@400;500;600;700;800&amp;display=swap" rel="stylesheet"/><link href="../assets/canvas.css?v=20261122k" rel="stylesheet"/><link crossorigin="anonymous" href="https://cdnjs.cloudflare.com/ajax/libs/font-awesome/6.7.2/css/all.min.css" integrity="sha512-Evv84Mr4kqVGRNSgIGL/F/aIDqQb7xQ2vcrdIwxfjThSH8CSR7PBEakCr51Ck+w+/U6swU2Im1vVX0SVk9ABhg==" referrerpolicy="no-referrer" rel="stylesheet"/><link rel="icon" type="image/x-icon" href="../favicon.ico"/><link rel="icon" type="image/png" sizes="64x64" href="../favicon.png"/><link rel="apple-touch-icon" sizes="180x180" href="../apple-touch-icon.png"/><link rel="canonical" href="https://designifybim.com/projects/doughzy"/>
 <meta property="og:type" content="website"/>
 <meta property="og:url" content="https://designifybim.com/projects/doughzy"/>
 <meta property="og:title" content="Doughzy | Branding &amp; Graphic Design in Barbados | Designify"/>
@@ -102,5 +102,5 @@
   <a aria-label="Chat with Designify on WhatsApp" class="whatsapp-contact" href="https://wa.me/12462301679" rel="noopener" target="_blank"><span class="whatsapp-bubble"><strong>Need a design?</strong><small>Chat on WhatsApp</small></span><span class="wa-ic" aria-hidden="true"><i class="fa-brands fa-whatsapp"></i></span></a>
 </div>
 <script src="../assets/site.js?v=20261027e"></script>
-<script src="../assets/canvas.js?v=20261122j"></script>
+<script src="../assets/canvas.js?v=20261122k"></script>
 </body></html>

diff --git a/projects/epic-eats.html b/projects/epic-eats.html
@@ -11,7 +11,7 @@
   gtag('js', new Date());
 
   gtag('config', 'G-Y71VVHPDCJ');
-</script><meta charset="utf-8"/><meta content="width=device-width,initial-scale=1" name="viewport"/><title>Epic Eats | Branding &amp; Graphic Design in Barbados | Designify</title><meta content="The Epic Eats food brand and promotional design project by Designify, a graphic designer in Barbados. See the designs created for Epic Eats." name="description"/><link href="https://fonts.googleapis.com" rel="preconnect"/><link crossorigin="" href="https://fonts.gstatic.com" rel="preconnect"/><link href="https://fonts.googleapis.com/css2?family=Poppins:wght@400;500;600;700;800&amp;display=swap" rel="stylesheet"/><link href="../assets/canvas.css?v=20261122j" rel="stylesheet"/><link crossorigin="anonymous" href="https://cdnjs.cloudflare.com/ajax/libs/font-awesome/6.7.2/css/all.min.css" integrity="sha512-Evv84Mr4kqVGRNSgIGL/F/aIDqQb7xQ2vcrdIwxfjThSH8CSR7PBEakCr51Ck+w+/U6swU2Im1vVX0SVk9ABhg==" referrerpolicy="no-referrer" rel="stylesheet"/><link rel="icon" type="image/x-icon" href="../favicon.ico"/><link rel="icon" type="image/png" sizes="64x64" href="../favicon.png"/><link rel="apple-touch-icon" sizes="180x180" href="../apple-touch-icon.png"/><link rel="canonical" href="https://designifybim.com/projects/epic-eats"/>
+</script><meta charset="utf-8"/><meta content="width=device-width,initial-scale=1" name="viewport"/><title>Epic Eats | Branding &amp; Graphic Design in Barbados | Designify</title><meta content="The Epic Eats food brand and promotional design project by Designify, a graphic designer in Barbados. See the designs created for Epic Eats." name="description"/><link href="https://fonts.googleapis.com" rel="preconnect"/><link crossorigin="" href="https://fonts.gstatic.com" rel="preconnect"/><link href="https://fonts.googleapis.com/css2?family=Poppins:wght@400;500;600;700;800&amp;display=swap" rel="stylesheet"/><link href="../assets/canvas.css?v=20261122k" rel="stylesheet"/><link crossorigin="anonymous" href="https://cdnjs.cloudflare.com/ajax/libs/font-awesome/6.7.2/css/all.min.css" integrity="sha512-Evv84Mr4kqVGRNSgIGL/F/aIDqQb7xQ2vcrdIwxfjThSH8CSR7PBEakCr51Ck+w+/U6swU2Im1vVX0SVk9ABhg==" referrerpolicy="no-referrer" rel="stylesheet"/><link rel="icon" type="image/x-icon" href="../favicon.ico"/><link rel="icon" type="image/png" sizes="64x64" href="../favicon.png"/><link rel="apple-touch-icon" sizes="180x180" href="../apple-touch-icon.png"/><link rel="canonical" href="https://designifybim.com/projects/epic-eats"/>
 <meta property="og:type" content="website"/>
 <meta property="og:url" content="https://designifybim.com/projects/epic-eats"/>
 <meta property="og:title" content="Epic Eats | Branding &amp; Graphic Design in Barbados | Designify"/>
@@ -102,5 +102,5 @@
   <a aria-label="Chat with Designify on WhatsApp" class="whatsapp-contact" href="https://wa.me/12462301679" rel="noopener" target="_blank"><span class="whatsapp-bubble"><strong>Need a design?</strong><small>Chat on WhatsApp</small></span><span class="wa-ic" aria-hidden="true"><i class="fa-brands fa-whatsapp"></i></span></a>
 </div>
 <script src="../assets/site.js?v=20261027e"></script>
-<script src="../assets/canvas.js?v=20261122j"></script>
+<script src="../assets/canvas.js?v=20261122k"></script>
 </body></html>
